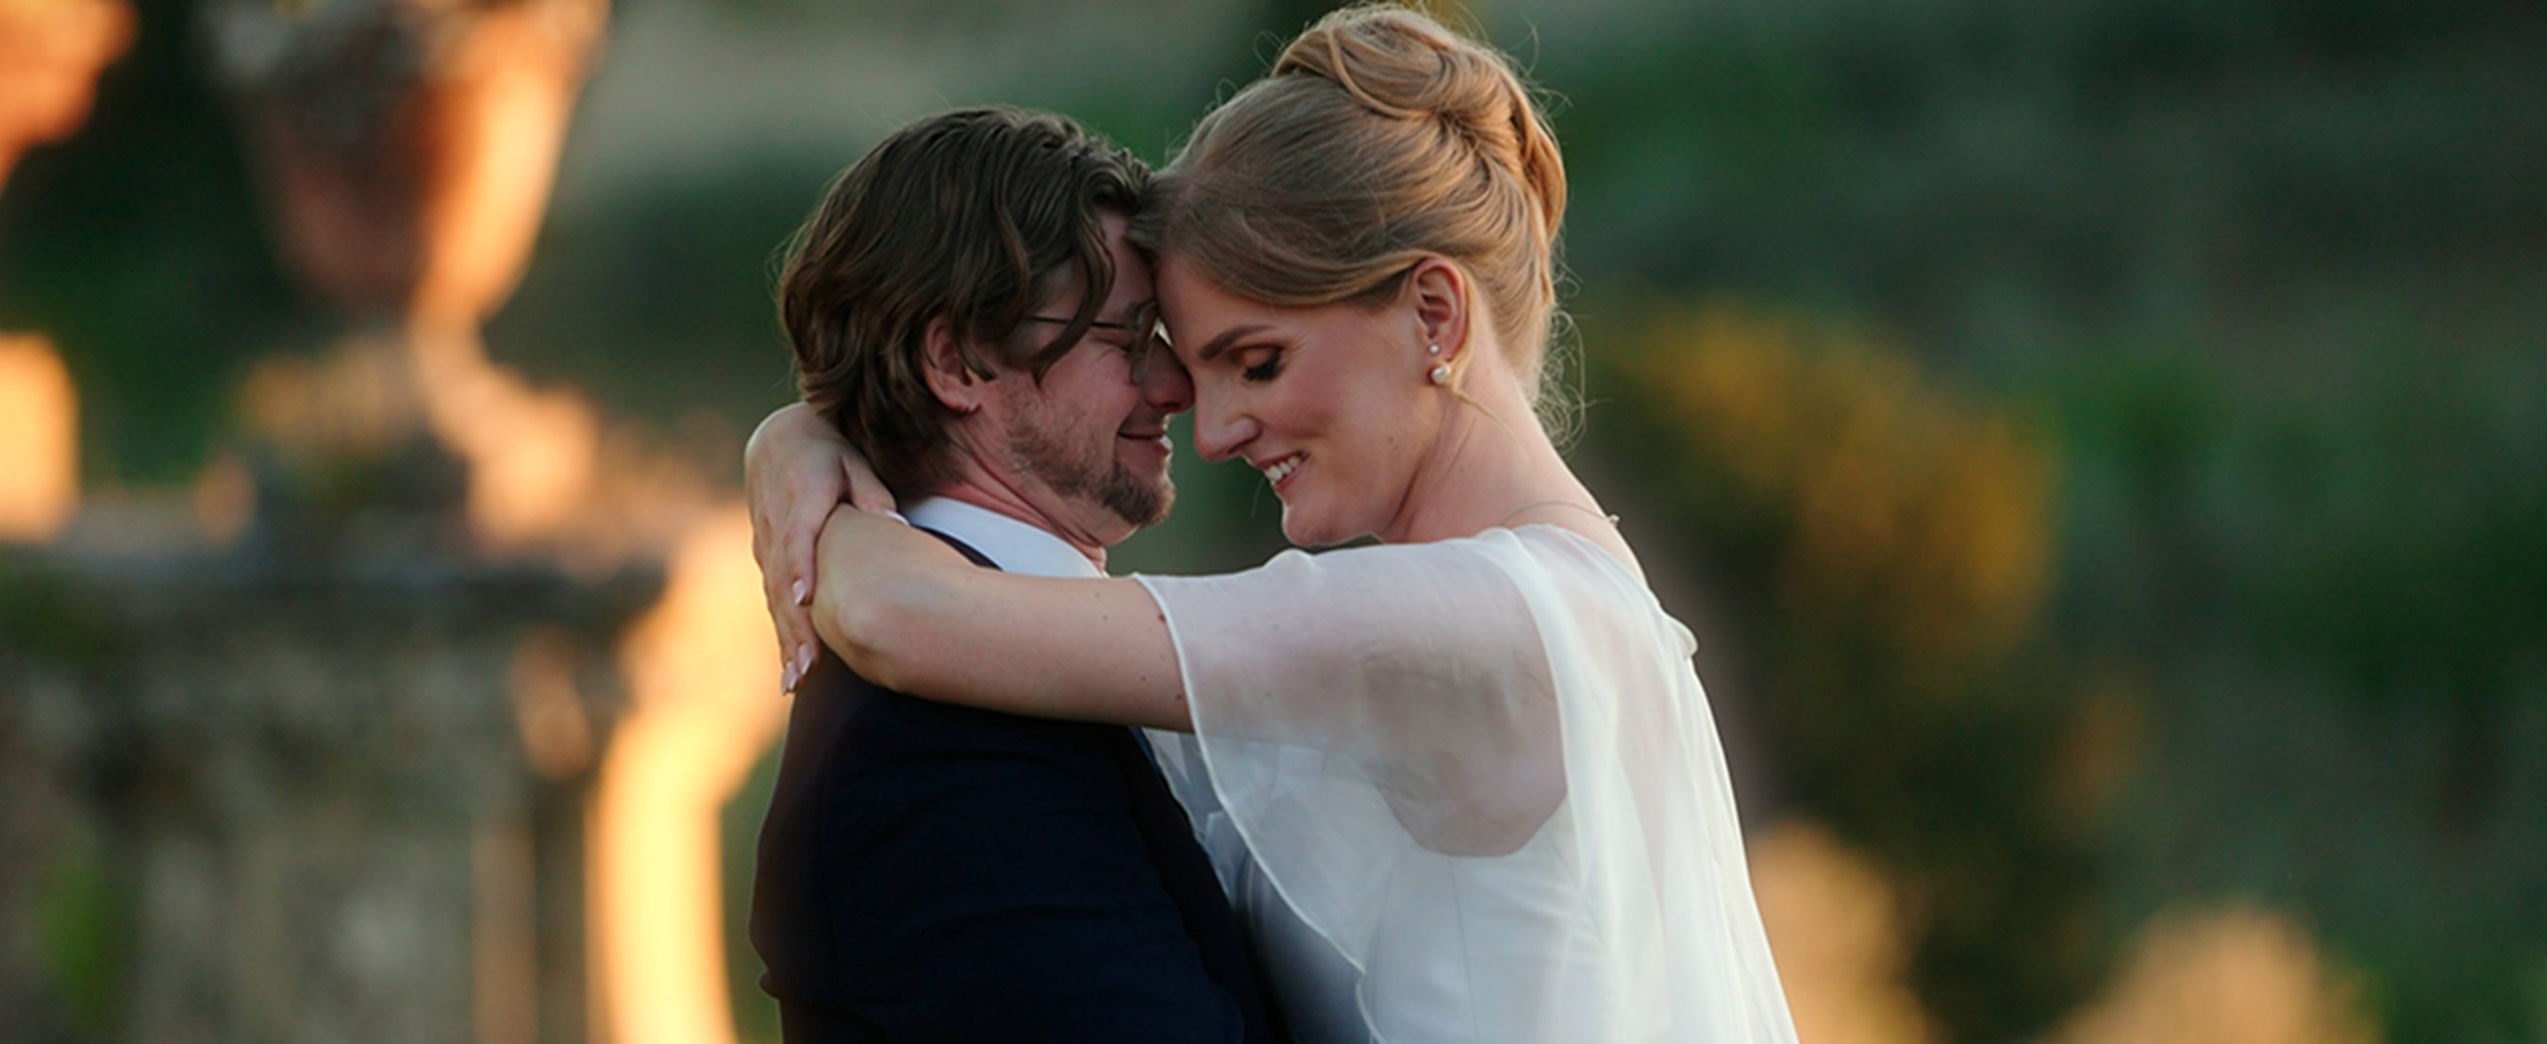
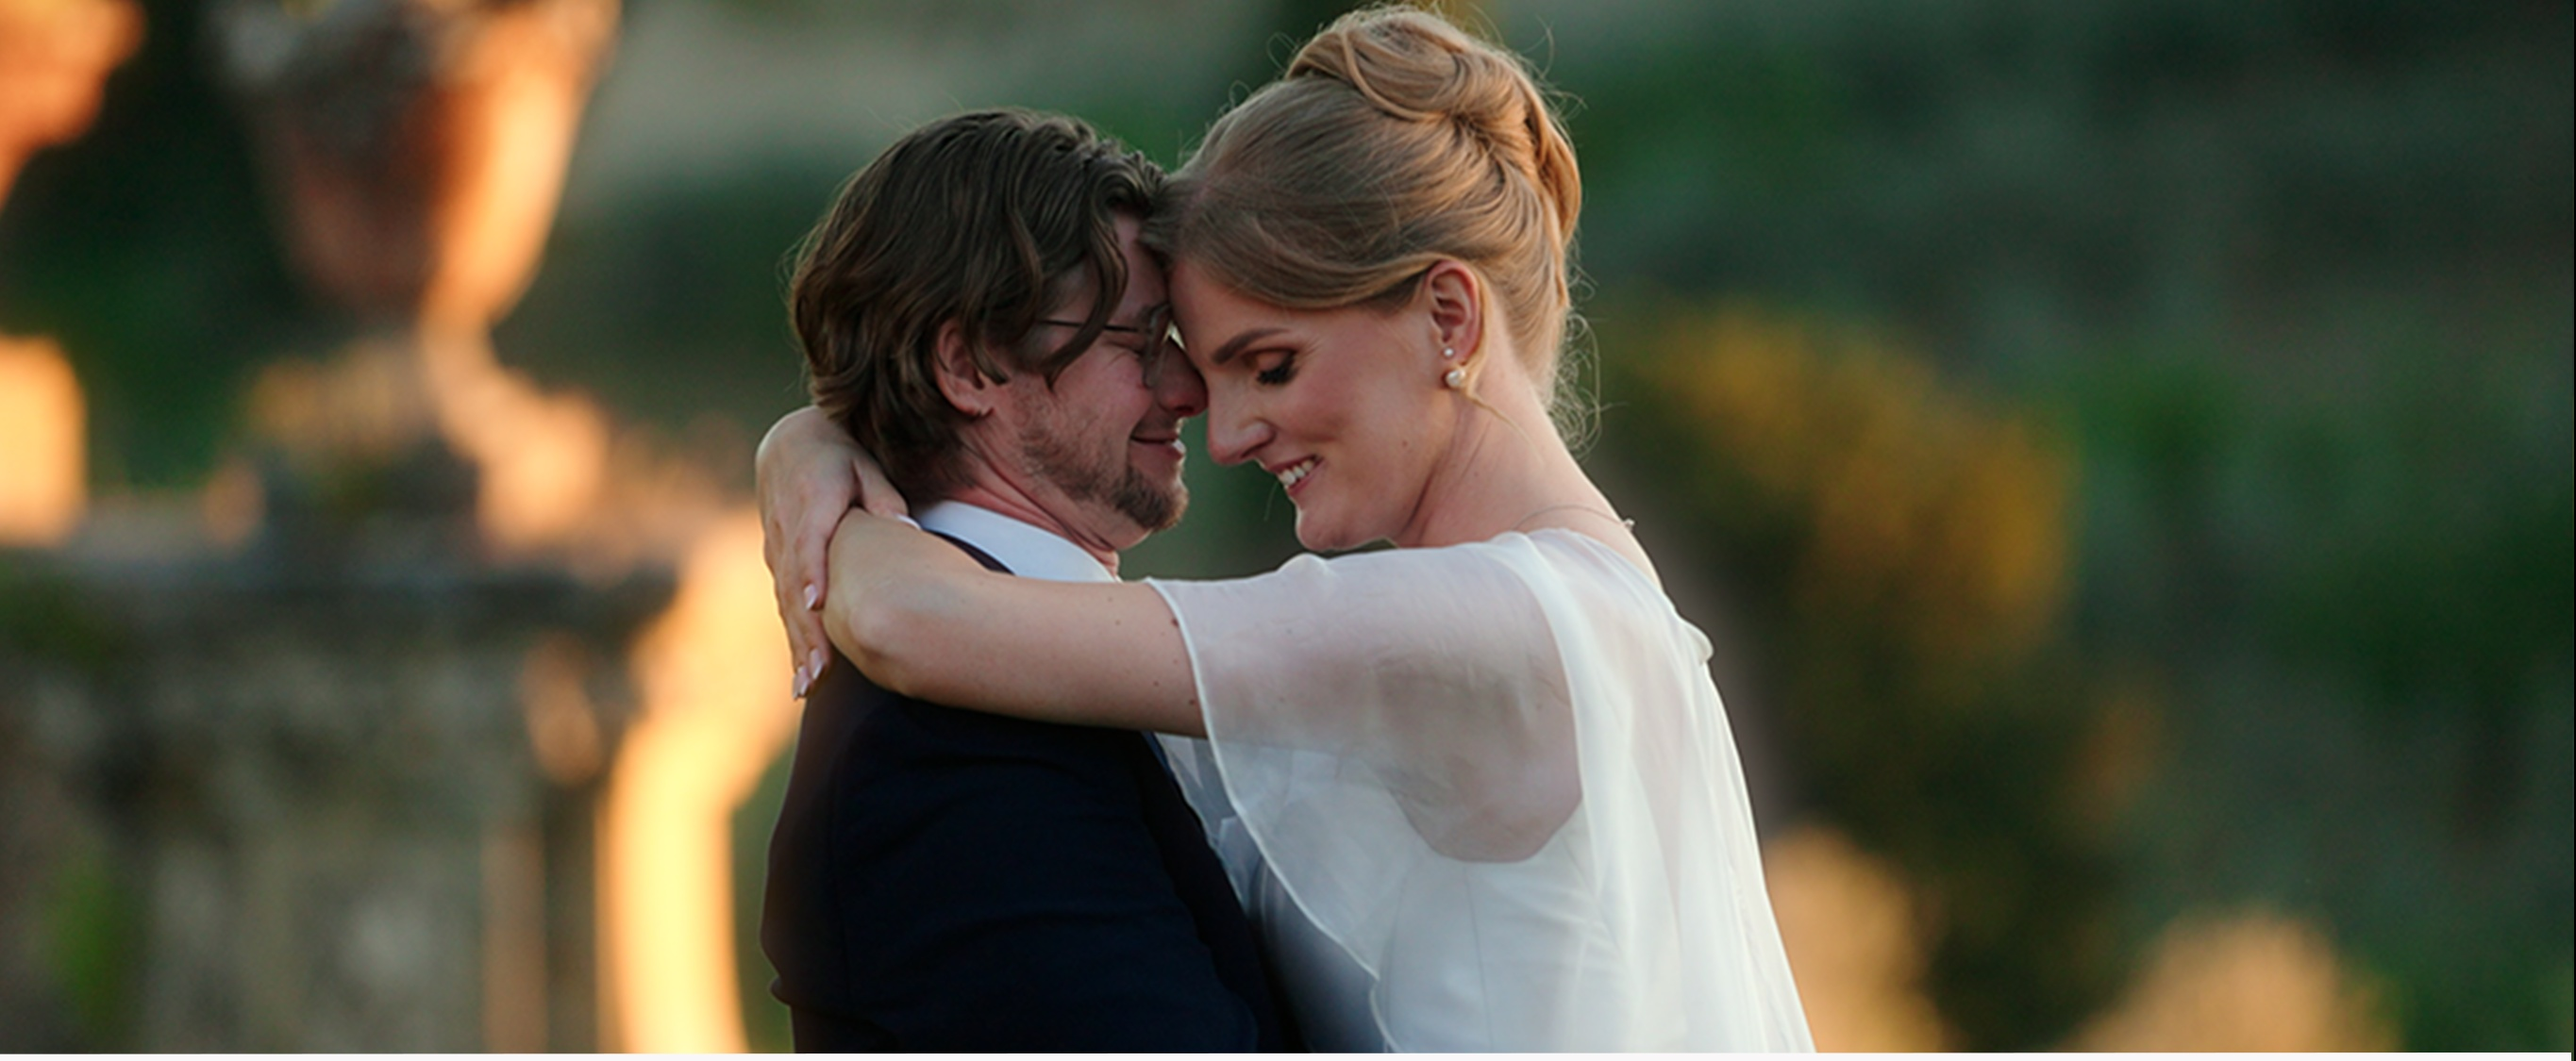
Add award-winning Senegal hero slide, new clients, and image upgrades
- Add "Primary Colours of Senegal" as a hero slide with three floating
  award badges (reFocus People's Vote + Honorable Mention, Chromatic
  Honorable Mention), recoloured white for consistency
- Add Pead PR and Sir Peter Blake Foundation to the client logo strip
- Add the Sir Peter Blake Foundation journal post and its cover image
- Add LinkedIn to the footer's Follow links
- Re-derive five hero/work images from their original 4K sources at
  higher quality

diff --git a/src/components/HeroSlideshow.tsx b/src/components/HeroSlideshow.tsx
@@ -22,6 +22,8 @@ export function HeroSlideshow() {
     return () => clearInterval(id);
   }, []);
 
+  const activeAward = heroSlides[index].award;
+
   return (
     <div className="absolute inset-0">
       {heroSlides.map((slide, i) => (
@@ -37,6 +39,45 @@ export function HeroSlideshow() {
           }`}
         />
       ))}
+
+      <div
+        className={`absolute top-24 right-4 md:top-28 md:right-8 z-10 flex flex-col items-end gap-3 transition-opacity duration-[1500ms] ease-in-out ${
+          activeAward ? "opacity-100" : "opacity-0 pointer-events-none"
+        }`}
+      >
+        {activeAward && (
+          <>
+            <div className="max-w-xs rounded-lg border border-white/15 bg-black/40 backdrop-blur-sm px-4 py-3 text-right">
+              <p className="flex items-center justify-end gap-1.5 text-xs uppercase tracking-[0.1em] text-accent">
+                {activeAward.label}
+                <svg width="14" height="14" viewBox="0 0 24 24" fill="none" aria-hidden>
+                  <path
+                    d="M12 2L14.6 8.6L21.5 9.2L16.3 13.7L17.9 20.5L12 16.8L6.1 20.5L7.7 13.7L2.5 9.2L9.4 8.6L12 2Z"
+                    stroke="currentColor"
+                    strokeWidth="1.4"
+                    strokeLinejoin="round"
+                  />
+                </svg>
+              </p>
+              <p className="mt-1 text-sm text-offwhite/85">{activeAward.detail}</p>
+            </div>
+            <div className="flex items-end gap-3 pr-1">
+              {activeAward.badges.map((badge, i) => (
+                <div
+                  key={badge.src}
+                  className="relative h-16 w-16 md:h-20 md:w-20 animate-float"
+                  style={{
+                    filter: "drop-shadow(0 8px 14px rgba(0,0,0,0.5))",
+                    animationDelay: `${i * 0.4}s`,
+                  }}
+                >
+                  <Image src={badge.src} alt={badge.alt} fill sizes="80px" className="object-contain" />
+                </div>
+              ))}
+            </div>
+          </>
+        )}
+      </div>
     </div>
   );
 }

diff --git a/src/lib/journal.ts b/src/lib/journal.ts
@@ -182,6 +182,23 @@ export const journalPosts: JournalPost[] = [
     },
   },
   {
+    slug: "one-red-sock-each",
+    title: "One red sock each: how we won the Sir Peter Blake Foundation",
+    tag: "Studio",
+    excerpt:
+      "We're covering the Sir Peter Blake Foundation's 2026 award recipients - and the story of how we got the meeting is our new favourite icebreaker.",
+    body: [
+      "We're thrilled to share that Stage Two has been engaged by the Sir Peter Blake Foundation to cover its 2026 award recipients - a programme that celebrates New Zealanders carrying forward Sir Peter's legacy of leadership and environmental action.",
+      "The red sock is symbolic to Sir Peter Blake, worn in his memory by those who carry his legacy forward. Walking into the pitch meeting, we could only find one spare pair between us - so we each put on a single red sock and went in anyway.",
+      "\"We've got one foot in the door,\" we told the room. \"If we win this, we'll put the other sock on.\" It broke the ice instantly - and not long after, we got to put the second sock on.",
+      "We can't wait to get started telling these stories properly later in the year.",
+    ],
+    cover: {
+      src: "/images/journal/blake-foundation-ocean.jpg",
+      alt: "Deep blue open ocean water, evoking Sir Peter Blake's seafaring legacy",
+    },
+  },
+  {
     slug: "why-stage-two-turns-down-some-briefs",
     title: "Why Stage Two turns down some briefs",
     tag: "Studio",

diff --git a/src/lib/hero-slides.ts b/src/lib/hero-slides.ts
@@ -1,12 +1,39 @@
 export type HeroSlide = {
   src: string;
   alt: string;
+  award?: {
+    label: string;
+    detail: string;
+    badges: { src: string; alt: string }[];
+  };
 };
 
 export const heroSlides: HeroSlide[] = [
   {
     src: "/images/hero/switzerland-alps-mountain-lake-landscape.jpg",
     alt: "Cinematic aerial landscape of a turquoise alpine lake surrounded by the Swiss Alps",
+  },
+  {
+    src: "/images/hero/primary-colours-senegal.jpg",
+    alt: "\"Primary Colours of Senegal\" - a man walking past a red curtained doorway in a Senegalese village",
+    award: {
+      label: "Award-winning photography",
+      detail: "\"Primary Colours of Senegal\", shot on location with World Vision",
+      badges: [
+        {
+          src: "/brand/awards/refocus-peoples-vote.png",
+          alt: "People's Vote Award, Travel - reFocus Awards 2025 Color Photography Contest",
+        },
+        {
+          src: "/brand/awards/refocus-honorable-mention.png",
+          alt: "Honorable Mention, Street - reFocus Awards 2025 Color Photography Contest",
+        },
+        {
+          src: "/brand/awards/chromatic-honorable-mention.png",
+          alt: "Honorable Mention - Chromatic Photography Awards 2025",
+        },
+      ],
+    },
   },
   {
     src: "/images/work/documentary-zero-to-100/documentary-zero-to-100-11.jpg",

diff --git a/src/lib/clients.ts b/src/lib/clients.ts
@@ -15,4 +15,6 @@ export const clientLogos: ClientLogo[] = [
   { name: "International Democratic Union", logo: "/brand/clients/idu.png", aspect: 800 / 300 },
   { name: "Wallaroos", logo: "/brand/clients/wallaroos.png", aspect: 800 / 190 },
   { name: "Launchpad Digital", logo: "/brand/clients/launchpad.png", aspect: 800 / 220 },
+  { name: "Pead PR", logo: "/brand/clients/pead-pr.png", aspect: 789 / 325 },
+  { name: "Sir Peter Blake Foundation", logo: "/brand/clients/blake-foundation.png", aspect: 1135 / 368 },
 ];

diff --git a/src/app/globals.css b/src/app/globals.css
@@ -99,6 +99,24 @@ body {
   animation: kenburns 22s ease-in-out infinite alternate;
 }
 
+@keyframes float {
+  0%,
+  100% {
+    transform: translateY(0);
+  }
+  50% {
+    transform: translateY(-8px);
+  }
+}
+.animate-float {
+  animation: float 4.5s ease-in-out infinite;
+}
+@media (prefers-reduced-motion: reduce) {
+  .animate-float {
+    animation: none;
+  }
+}
+
 @keyframes marquee {
   from {
     transform: translateX(0);

diff --git a/src/components/Footer.tsx b/src/components/Footer.tsx
@@ -24,6 +24,7 @@ const columns = [
     links: [
       { href: "https://instagram.com/stagetwo.media", label: "Instagram" },
       { href: "https://www.facebook.com/stagetwomedia", label: "Facebook" },
+      { href: "https://www.linkedin.com/company/stagetwomedia", label: "LinkedIn" },
       { href: "https://vimeo.com/stagetwomediahouse", label: "Vimeo" },
     ],
   },
